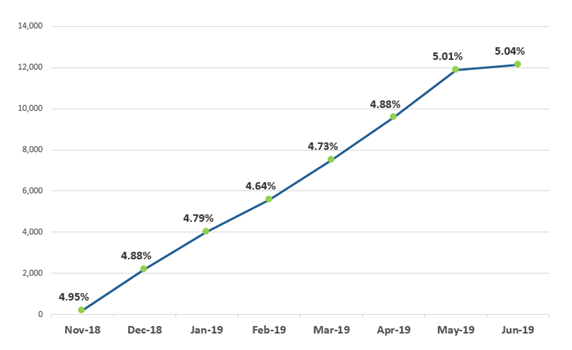
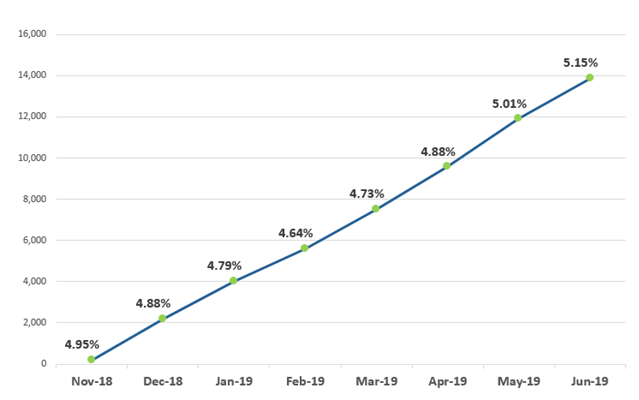
Commit of Content/draft product page.htm,Content/draft record access.htm,Content/NHS 111 Discovery frailty flagging.htm,Content/Resources/Images/Frailty graph.png

diff --git a/Content/draft product page.htm b/Content/draft product page.htm
@@ -3,41 +3,46 @@
     <head>
     </head>
     <body>
-        <h1>draft product page</h1>
         <div class="row">
             <div class=" small-4 columns">
-                <p class="headline ddsblue"><a href="draft record access.htm"><i class="fas fa-key fa-2x text-center"></i><br /><br /><b>Record Access</b></a> <br />A brief description of what this is</p>
+                <p class="headline ddsblue"><a href="draft record access.htm"><i class="fas fa-key fa-2x text-center"></i><br /><br /><b>Record Access</b></a> <br /></p>
+                <p class="headline ddsblue">Record Access enables third party systems to access structured patient data from multiple sources. </p>
             </div>
             <div class="small-4 columns">
-                <p class="headline ddsblue"><i class="fas fa-chart-line fa-2x text-center"></i>
-                    <br />
-                    <br /><b><a href="Draft decision support.htm">Decision Support</a></b> <br />A brief description of what this is</p>
+                <p class="headline ddsblue"><a href="Draft decision support.htm"><i class="fas fa-chart-line fa-2x text-center"></i><br /><br /><b>Decision Support</b></a>
+                </p>
+                <p class="headline ddsblue">Decision Support applies rules, formulae, and algorithms to patient data to highlight patient risk or issues to support clinical decisions for direct patient care.</p>
             </div>
             <div class=" small-4 columns">
                 <p class="headline ddsblue"><i class="fas fa-database fa-2x text-center"></i>
                     <br />
-                    <br /><b>Data Distribution Service</b>
-                    <br />A brief description of what this is</p>
+                    <br /><b>Data Distribution</b>
+                </p>
+                <p class="headline ddsblue">Data Distribution posts patient data from multiple sources, in a common format, and under strict governance, to anyone who has a right and a reason to see the data.</p>
             </div>
         </div>
         <div class="row">
             <div class=" small-4 columns">
-                <p class="headline ddsblue"><i class="fas fa-user-md fa-2x text-center"></i>
+                <p class="headline ddsblue"><a href="Population Health.htm"><i class="fas fa-user-md fa-2x text-center"></i>
                     <br />
-                    <br /><b><a href="Population Health.htm">Population Health</a></b>
-                    <br />A brief description of what this is</p>
+                    <br /><b>Population Reporting</b></a>
+                </p>
+                <p class="headline ddsblue">Population Reporting provides the results of advanced queries and data analysis, and distributes those results as data files.</p>
             </div>
             <div class=" small-4 columns">
-                <p class="headline ddsblue"><i class="fas fa-users fa-2x text-center"></i>
+                <p class="headline ddsblue"><a href="Data Sharing Manager.htm"><i class="fas fa-users fa-2x text-center"></i>
                     <br />
-                    <br /><b><a href="Data Sharing Manager.htm">Data Sharing Manager</a></b>
-                    <br />Data Sharing Manager is used to view and configure data agreements and data flows through the Discovery Data Service.</p>
+                    <br /><b>Data Sharing Manager</b></a>
+                </p>
+                <p class="headline ddsblue">Use Data Sharing Manager to configure data sharing agreements and data processing agreements.</p>
             </div>
             <div class=" small-4 columns">
                 <p class="headline ddsblue"><i class="fas fa-laptop fa-2x text-center"></i>
                     <br />
-                    <br /><b>Database Support Service</b>
-                    <br />A brief description of what this is</p>
+                    <br /><b>Database Support</b>
+                    <br />
+                </p>
+                <p class="headline ddsblue">Supporting third parties to host their own patient data.</p>
             </div>
         </div>
     </body>

diff --git a/Content/NHS 111 Discovery frailty flagging.htm b/Content/NHS 111 Discovery frailty flagging.htm
@@ -5,5 +5,5 @@
     <body>
         <h1>NHS 111 Discovery frailty flagging</h1>
         <br />Since the API went live in November 2018, the Discovery Data Service has: 
-		<ul><li class="bullets">handled 489,265 API requests.</li><li class="bullets">matched 213,140 patients.</li><li class="bullets">flagged 10,535 potentially frail patients.</li><li class="bullets"><a href="Popups/Frailty graph.htm" class="MCTopicPopup MCTopicPopupHotSpot MCXref xref" MadCap:width="750px" MadCap:height="750px">Monthly totals</a></li><li class="bullets">Latest update: 3 June 2019.</li></ul><p><img src="Resources/Images/Screen shots/NHS 111/page 1.png" /><img src="Resources/Images/Screen shots/NHS 111/page 2.png" /><img src="Resources/Images/Screen shots/NHS 111/page 3.png" /><img src="Resources/Images/Screen shots/NHS 111/page 6.png" /><img src="Resources/Images/Screen shots/NHS 111/page 7.png" /><img src="Resources/Images/Screen shots/NHS 111/page 8.png" /><img src="Resources/Images/Screen shots/NHS 111/page 9.png" /></p><p><a href="Products-columns.htm">Back to Products</a></p></body>
+		<ul><li class="bullets">handled 695,679 API requests.</li><li class="bullets">matched 269,366 patients.</li><li class="bullets">flagged 13,878 potentially frail patients.</li><li class="bullets"><a href="Popups/Frailty graph.htm" class="MCTopicPopup MCTopicPopupHotSpot MCXref xref" MadCap:width="750px" MadCap:height="750px">Monthly totals</a></li><li class="bullets">Latest update: 24 June 2019.</li></ul><p><img src="Resources/Images/Screen shots/NHS 111/page 1.png" /><img src="Resources/Images/Screen shots/NHS 111/page 2.png" /><img src="Resources/Images/Screen shots/NHS 111/page 3.png" /><img src="Resources/Images/Screen shots/NHS 111/page 6.png" /><img src="Resources/Images/Screen shots/NHS 111/page 7.png" /><img src="Resources/Images/Screen shots/NHS 111/page 8.png" /><img src="Resources/Images/Screen shots/NHS 111/page 9.png" /></p><p><a href="Products-columns.htm">Back to Products</a></p></body>
 </html>

diff --git a/Content/draft record access.htm b/Content/draft record access.htm
@@ -3,8 +3,10 @@
     <head>
     </head>
     <body>
-        <h1>draft Record Access</h1>
-        <p>Third party access to specific patient records or data is controlled by DDS REST APIs. </p>
+        <h1>Record Access</h1>
+        <p>Record Access enables third party systems to access structured person data published by multiple sources, such as primary and secondary care patient records.</p>
+        <p>An example of a project that uses Record Access is the <a href="Ripple Foundation.htm">Helm Patient Portal</a>, which uses the DDS to access GP data from practices using Vision, TPP, and EMIS from a single source.</p>
+        <p>Third party system access to structured patient data is controlled by DDS REST APIs. </p>
         <p>For example:</p>
         <ul>
             <li class="bullets" value="1"><a href="https://devgateway.discoverydataservice.net/eds-api/#authentication" target="_blank">Authenticate</a> - a valid authentication token for calling subsequent APIs.</li>
